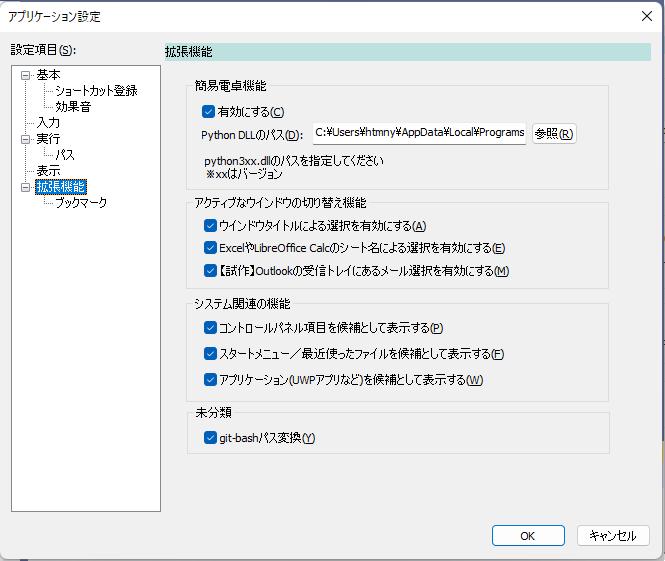
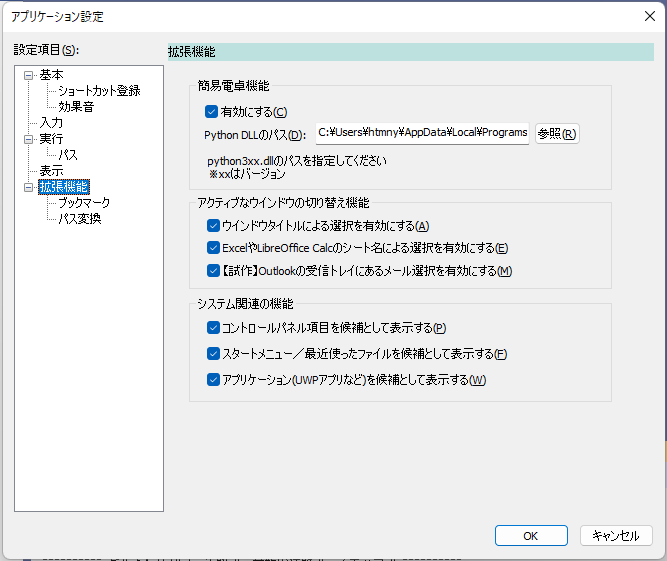
パス変換系の設定を別ページに移動 / fileプロトコルパス変換のON/OFFを設定できるようにした

diff --git a/soyokaze/commands/pathconvert/AppSettingPathConvertPage.cpp b/soyokaze/commands/pathconvert/AppSettingPathConvertPage.cpp
@@ -1,0 +1,85 @@
+#include "pch.h"
+#include "framework.h"
+#include "AppSettingPathConvertPage.h"
+#include "Settings.h"
+#include "resource.h"
+
+#ifdef _DEBUG
+#define new DEBUG_NEW
+#endif
+
+namespace soyokaze {
+namespace commands {
+namespace pathconvert {
+
+AppSettingPathConvertPage::AppSettingPathConvertPage(CWnd* parentWnd) : 
+	SettingPage(_T("パス変換"), IDD_APPSETTING_PATHCONVERT, parentWnd)
+{
+}
+
+AppSettingPathConvertPage::~AppSettingPathConvertPage()
+{
+}
+
+bool AppSettingPathConvertPage::UpdateStatus()
+{
+	return true;
+}
+
+BOOL AppSettingPathConvertPage::OnKillActive()
+{
+	if (UpdateData() == FALSE) {
+		return FALSE;
+	}
+	return TRUE;
+}
+
+BOOL AppSettingPathConvertPage::OnSetActive()
+{
+	UpdateStatus();
+	UpdateData(FALSE);
+	return TRUE;
+}
+
+void AppSettingPathConvertPage::OnOK()
+{
+	auto settingsPtr = (Settings*)GetParam();
+	settingsPtr->Set(_T("PathConvert:IsEnableGitBashPath"), (bool)mIsEnableGitBashPath);
+	settingsPtr->Set(_T("PathConvert:IsEnableFileProtol"), (bool)mIsEnableFileProtolPath);
+
+	__super::OnOK();
+}
+
+void AppSettingPathConvertPage::DoDataExchange(CDataExchange* pDX)
+{
+	__super::DoDataExchange(pDX);
+
+	DDX_Check(pDX, IDC_CHECK_ENABLE_GITBASH, mIsEnableGitBashPath);
+	DDX_Check(pDX, IDC_CHECK_ENABLE_FILEPROTOCOL, mIsEnableFileProtolPath);
+}
+
+BEGIN_MESSAGE_MAP(AppSettingPathConvertPage, SettingPage)
+END_MESSAGE_MAP()
+
+
+BOOL AppSettingPathConvertPage::OnInitDialog()
+{
+	__super::OnInitDialog();
+	UpdateStatus();
+	UpdateData(FALSE);
+
+	return TRUE;
+}
+
+void AppSettingPathConvertPage::OnEnterSettings()
+{
+	auto settingsPtr = (Settings*)GetParam();
+
+	mIsEnableGitBashPath = settingsPtr->Get(_T("PathConvert:IsEnableGitBashPath"), true);
+	mIsEnableFileProtolPath = settingsPtr->Get(_T("PathConvert:IsEnableFileProtol"), true);
+}
+
+} // end of namespace pathconvert
+} // end of namespace commands
+} // end of namespace soyokaze
+

diff --git a/soyokaze/gui/ExtensionSettingDialog.cpp b/soyokaze/gui/ExtensionSettingDialog.cpp
@@ -17,8 +17,7 @@ ExtensionSettingDialog::ExtensionSettingDialog(CWnd* parentWnd) :
 	mIsEnableControlPanel(FALSE),
 	mIsEnableSpecialFolder(FALSE),
 	mIsEnableUWP(FALSE),
-	mIsEnableOutlookMail(FALSE),
-	mIsEnableGitBashPath(FALSE)
+	mIsEnableOutlookMail(FALSE)
 {
 }
 
@@ -41,7 +40,6 @@ void ExtensionSettingDialog::OnOK()
 	settingsPtr->Set(_T("Soyokaze:IsEnableSpecialFolder"), (bool)mIsEnableSpecialFolder);
 	settingsPtr->Set(_T("Soyokaze:IsEnableUWP"), (bool)mIsEnableUWP);
 	settingsPtr->Set(_T("Soyokaze:IsEnableOutlookMailItem"), (bool)mIsEnableOutlookMail);
-	settingsPtr->Set(_T("Soyokaze:IsEnableGitBashPath"), (bool)mIsEnableGitBashPath);
 	__super::OnOK();
 }
 
@@ -56,7 +54,6 @@ void ExtensionSettingDialog::DoDataExchange(CDataExchange* pDX)
 	DDX_Check(pDX, IDC_CHECK_ENABLE_SPECIALFOLDER, mIsEnableSpecialFolder);
 	DDX_Check(pDX, IDC_CHECK_ENABLE_UWPAPPS, mIsEnableUWP);
 	DDX_Check(pDX, IDC_CHECK_ENABLE_OUTLOOKMAIL, mIsEnableOutlookMail);
-	DDX_Check(pDX, IDC_CHECK_ENABLE_GITBASH, mIsEnableGitBashPath);
 }
 
 BEGIN_MESSAGE_MAP(ExtensionSettingDialog, SettingPage)
@@ -108,7 +105,6 @@ void ExtensionSettingDialog::OnEnterSettings()
 	mIsEnableSpecialFolder = settingsPtr->Get(_T("Soyokaze:IsEnableSpecialFolder"), true);
 	mIsEnableUWP = settingsPtr->Get(_T("Soyokaze:IsEnableUWP"), true);
 	mIsEnableOutlookMail = settingsPtr->Get(_T("Soyokaze:IsEnableOutlookMailItem"), false);
-	mIsEnableGitBashPath = settingsPtr->Get(_T("Soyokaze:IsEnableGitBashPath"), false);
 }
 
 bool ExtensionSettingDialog::UpdateStatus()

diff --git a/soyokaze/commands/pathconvert/FileProtocolConvertAdhocCommand.cpp b/soyokaze/commands/pathconvert/FileProtocolConvertAdhocCommand.cpp
@@ -36,12 +36,20 @@ struct FileProtocolConvertAdhocCommand::PImpl : public AppPreferenceListenerIF
 	void OnAppFirstBoot() override {}
 	void OnAppPreferenceUpdated() override
 	{
-		auto pref = AppPreference::Get();
-		mIsIgnoreUNC = pref->IsIgnoreUNC();
+		reload();
 	}
 	void OnAppExit() override {}
 
+	void reload()
+	{
+		auto pref = AppPreference::Get();
+		mIsEnable = pref->IsEnableFileProtocolPathConvert();
+		mIsIgnoreUNC = pref->IsIgnoreUNC();
+	}
+
 	CString mFullPath;
+
+	bool mIsEnable;
 	//
 	bool mIsIgnoreUNC;
 	// 初回呼び出しフラグ(初回呼び出し時に設定をロードするため)
@@ -51,6 +59,7 @@ struct FileProtocolConvertAdhocCommand::PImpl : public AppPreferenceListenerIF
 
 FileProtocolConvertAdhocCommand::FileProtocolConvertAdhocCommand() : in(std::make_unique<PImpl>())
 {
+	in->mIsEnable = true;
 	in->mIsIgnoreUNC = false;
 	in->mIsFirstCall = true;
 }
@@ -159,9 +168,12 @@ int FileProtocolConvertAdhocCommand::Match(Pattern* pattern)
 {
 	if (in->mIsFirstCall) {
 		// 初回呼び出し時に設定よみこみ
-		auto pref = AppPreference::Get();
-		in->mIsIgnoreUNC = pref->IsIgnoreUNC();
+		in->reload();
 		in->mIsFirstCall = false;
+	}
+
+	if (in->mIsEnable == false) {
+		return Pattern::Mismatch;
 	}
 
 	CString wholeWord = pattern->GetWholeString();

diff --git a/soyokaze/commands/pathconvert/AppSettingPathConvertPage.h b/soyokaze/commands/pathconvert/AppSettingPathConvertPage.h
@@ -1,0 +1,38 @@
+#pragma once
+
+#include "gui/SettingPage.h"
+
+namespace soyokaze {
+namespace commands {
+namespace pathconvert {
+
+class AppSettingPathConvertPage : public SettingPage
+{
+public:
+	AppSettingPathConvertPage(CWnd* parentWnd);
+	virtual ~AppSettingPathConvertPage();
+
+	// git-bashパス変換を利用するか?
+	BOOL mIsEnableGitBashPath;
+	// file://プロトコル→ローカルパス変換を利用するか?
+	BOOL mIsEnableFileProtolPath;
+
+protected:
+	bool UpdateStatus();
+
+	BOOL OnKillActive() override;
+	BOOL OnSetActive() override;
+	void OnOK() override;
+	void DoDataExchange(CDataExchange* pDX) override;
+	BOOL OnInitDialog() override;
+	void OnEnterSettings() override;
+// 実装
+protected:
+	DECLARE_MESSAGE_MAP()
+};
+
+
+} // end of namespace pathconvert
+} // end of namespace commands
+} // end of namespace soyokaze
+

diff --git a/soyokaze/commands/pathconvert/PathConvertProvider.cpp b/soyokaze/commands/pathconvert/PathConvertProvider.cpp
@@ -1,5 +1,6 @@
 #include "pch.h"
 #include "PathConvertProvider.h"
+#include "commands/pathconvert/AppSettingPathConvertPage.h"
 #include "commands/pathconvert/GitBashToLocalPathAdhocCommand.h"
 #include "commands/pathconvert/LocalToGitBashPathAdhocCommand.h"
 #include "commands/pathconvert/FileProtocolConvertAdhocCommand.h"
@@ -154,6 +155,23 @@ void PathConvertProvider::QueryAdhocCommands(
 		}
 	}
 }
+
+/**
+ 	設定ページを取得する
+ 	@return true 成功  false失敗
+ 	@param[in]  parent 親ウインドウ
+ 	@param[out] pages  設定ページリスト
+*/
+bool PathConvertProvider::CreateSettingPages(
+	CWnd* parent,
+	std::vector<SettingPage*>& pages
+)
+{
+	// 必要に応じて実装する
+	pages.push_back(new AppSettingPathConvertPage(parent));
+	return true;
+}
+
 
 } // end of namespace pathconvert
 } // end of namespace commands

diff --git a/soyokaze/resource.h b/soyokaze/resource.h
@@ -112,6 +112,7 @@
 #define IDS_CONFIRM_VMXLOCKED           172
 #define IDD_APPSETTING_BOOKMARK         172
 #define IDS_SNIPPETCOMMAND              173
+#define IDD_APPSETTING_PATHCONVERT      173
 #define IDS_DESCRIPTION_SNIPPETCOMMAND  174
 #define IDS_ERR_TEXTISEMPTY             175
 #define IDS_WINDOWTITLE                 176
@@ -268,6 +269,8 @@
 #define IDC_CHECK_ENABLE_CONTROLPANEL2  1121
 #define IDC_CHECK_ENABLE_GITBASH        1122
 #define IDC_CHECK_APPLYALL              1123
+#define IDC_CHECK_ENABLE_GITBASH2       1123
+#define IDC_CHECK_ENABLE_FILEPROTOCOL   1123
 #define IDC_CHECK_ENABLESHORTCUT        1124
 #define IDC_CHECK_KEEPACTIVEWINDOW      1125
 #define IDC_BUTTON1                     1126

diff --git a/soyokaze/AppPreference.cpp b/soyokaze/AppPreference.cpp
@@ -644,7 +644,14 @@ bool AppPreference::IsEnableOutlookMailItem()
 // GitBashパス変換機能を使用するか
 bool AppPreference::IsEnableGitBashPath()
 {
-	return in->mSettings.Get(_T("Soyokaze:IsEnableGitBashPath"), false);
+	return in->mSettings.Get(_T("PathConvert:IsEnableGitBashPath"), false);
+
+}
+
+// fileプロトコルパス変換機能を使用するか
+bool AppPreference::IsEnableFileProtocolPathConvert()
+{
+	return in->mSettings.Get(_T("PathConvert:IsEnableFileProtol"), false);
 }
 
 // 入力窓が消えるときにテキストを消去しない(コマンドを実行したときだけ入力欄をクリアする)

diff --git a/soyokaze/AppPreference.h b/soyokaze/AppPreference.h
@@ -107,6 +107,8 @@ public:
 
 	// GitBashパス変換機能を使用するか
 	bool IsEnableGitBashPath();
+// fileプロトコルパス変換機能を使用するか
+	bool IsEnableFileProtocolPathConvert();
 
 	// 入力窓が消えるときにテキストを消去しない(コマンドを実行したときだけ入力欄をクリアする)
 	bool IsKeepTextWhenDlgHide();

diff --git a/soyokaze/commands/pathconvert/PathConvertProvider.h b/soyokaze/commands/pathconvert/PathConvertProvider.h
@@ -25,6 +25,9 @@ public:
 	// $B0l;~E*$J%3%^%s%I$rI,MW$K1~$8$FDs6!$9$k(B
 	virtual void QueryAdhocCommands(Pattern* pattern, CommandQueryItemList& comands);
 
+	// $B@_Dj%Z!<%8$r<hF@$9$k(B
+	bool CreateSettingPages(CWnd* parent, std::vector<SettingPage*>& pages) override;
+
 	DECLARE_COMMANDPROVIDER(PathConvertProvider)
 
 private:

diff --git a/soyokaze/gui/ExtensionSettingDialog.h b/soyokaze/gui/ExtensionSettingDialog.h
@@ -24,8 +24,6 @@ public:
 	BOOL mIsEnableUWP;
 	// Outlookメール選択機能(Inboxのみ)
 	BOOL mIsEnableOutlookMail;
-	// GitBashパス変換(/c/... ←→ c:\...)
-	BOOL mIsEnableGitBashPath;
 
 protected:
 	bool UpdateStatus();

diff --git a/doc/help.md b/doc/help.md
@@ -546,10 +546,6 @@ mp3ファイルのみ指定可能(他の音声ファイルには非対応)
   - `アプリケーション(UWPアプリなど)を候補として表示する`
     - チェックすると、実行環境にインストールされているアプリケーション(UWPアプリを含む)を候補として表示・実行する
 
-- `未分類`
-  - `git-bashパス変換`
-    - チェックすると、git-bash上のパス表記`/c/path/to/...`とWindowsローカルパス`C:\path/\to\...`を変換するコマンドを表示する
-
 #### 拡張機能＞ブックマーク
 
 ![](../image/appsetting-bookmark.png)
@@ -560,6 +556,18 @@ mp3ファイルのみ指定可能(他の音声ファイルには非対応)
 ![](../image/bookmark.png)
   - `URL文字列を候補の絞り込みに使う`  
 チェックすると、URL文字列(とブックマーク名)を候補の絞り込みに使う。チェックしない場合はブックマーク名のみで絞り込みする
+
+#### 拡張機能＞パス変換
+
+![](../image/appsetting-pathconvert.png)
+
+- `git-bashパスをローカルパス表記に変換する`
+  - チェックすると、git-bash上のパス表記`/c/path/to/...`とWindowsローカルパス`C:\path/\to\...`を変換するコマンドを表示する
+  - [説明](#git-bashパス変換)
+- `file://...をローカルパス表記に変換する`
+  - チェックすると、git-bash上のパス表記`/c/path/to/...`とWindowsローカルパス`C:\path/\to\...`を変換するコマンドを表示する
+  - [説明](#fileプロトコルをローカルパスに変換)
+
 
 ### 通常コマンドの登録・編集
 
@@ -909,7 +917,7 @@ mp3ファイルのみ指定可能(他の音声ファイルには非対応)
 
 ### コマンドとして登録していなくても実行できる機能
 
-本アプリの[基本的な使い方](#基本的な使い方)としては、登録したコマンドをキーワードで入力して呼び出して使用するが、
+コマンドをあらかじめ登録しておいたものを使うのが本アプリの[基本的な使い方](#基本的な使い方)であるが、
 コマンドとして登録していなくても使える機能がある。
 
 - URLを開く
@@ -942,7 +950,8 @@ mp3ファイルのみ指定可能(他の音声ファイルには非対応)
 
 #### ファイル名を指定して実行
 
-入力欄に入力したキーワードが、環境変数`PATH`に含まれるディレクトリ内の`.exe`ファイルと一致する場合は、その実行ファイルを起動する。
+入力欄に入力したキーワードが、環境変数`PATH`に含まれるディレクトリや[アプリで独自に追加したディレクトリ](#実行パス)内の`.exe`ファイルと一致する場合は、
+その実行ファイルを起動する。
 
 例えば、`notepad`と入力すると、その環境のPATHのどこかに`notepad.exe`がある場合、それを実行することができる。
 (一般的には`C:\WINDOWS\system32\notepad.exe`にヒットするはず)
@@ -1003,17 +1012,6 @@ URIエンコード形式の文字列をデコードして表示する。
 コマンドを実行すると時間をクリップボードにコピーする。
 
 例: `13:43-12:50` → `53分`
-
-#### fileプロトコルをローカルパスに変換
-
-`file://...`で始まるパスをローカルパスやUNC形式のパスに変換し、変換したパスに対して何かをすることができる。
-
-
-- `Enter`キー押下 → 変換後のパスをクリップボードにコピー
-- `Shift-Enter`キー押下 → 開く(ファイルを実行する)
-- `Ctrl-Enter`キー押下 → パスを開く(パスが存在するフォルダをファイラーで開く)
-
-fileプロトコルの例: `file:///C:/Windows/WindowsUpdate.log` → `C:\Windows\WindowsUpdate.log`
 
 ### 拡張機能について
 
@@ -1104,6 +1102,22 @@ Edge/Chromeのブックマークに対応している。
 また、入力欄にWindowsローカルパス表記でファイルパスを入力すると、対応するgit-bash上のパス表記に変換するコマンドを表示する
 
 ![](../image/cygwin-path2.png)
+
+#### fileプロトコルをローカルパスに変換
+
+`file://...`で始まるパスをローカルパスやUNC形式のパスに変換し、変換したパスに対して下記の操作を行うことができる。
+
+##### 実行時の動作
+
+|押下キー|動作|
+|--|--|
+|`Enter`|変換後のパスをクリップボードにコピー|
+|`Shift-Enter`|開く(ファイルを実行する)|
+|`Ctrl-Enter`|パスを開く(パスが存在するフォルダをファイラーで開く)|
+
+##### fileプロトコルの例
+
+`file:///C:/Windows/WindowsUpdate.log` → `C:\Windows\WindowsUpdate.log`
 
 ## システムコマンド一覧
 
